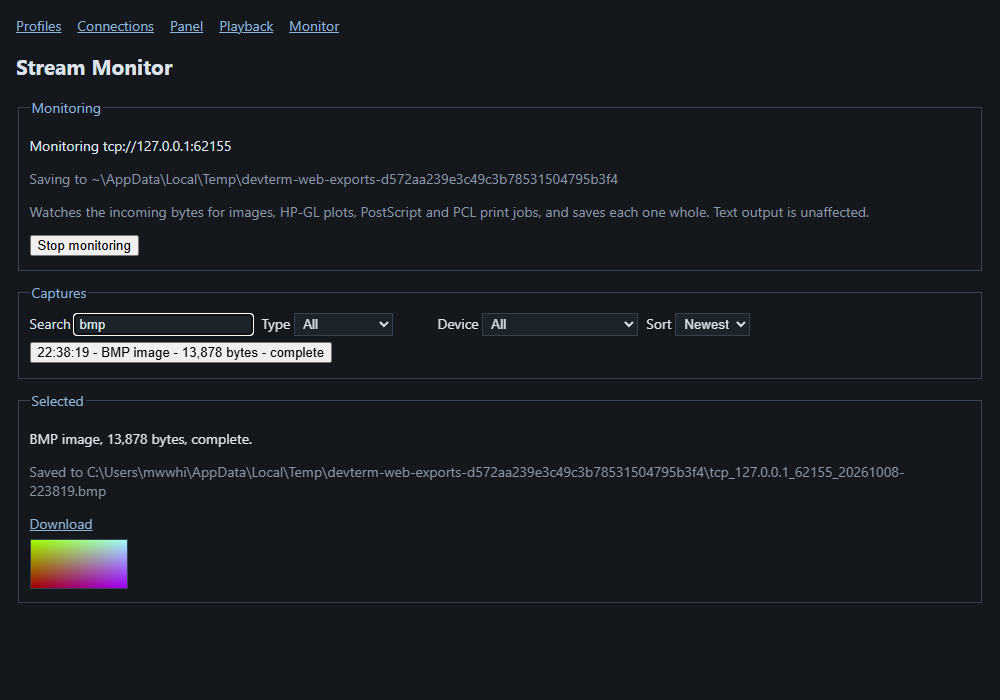
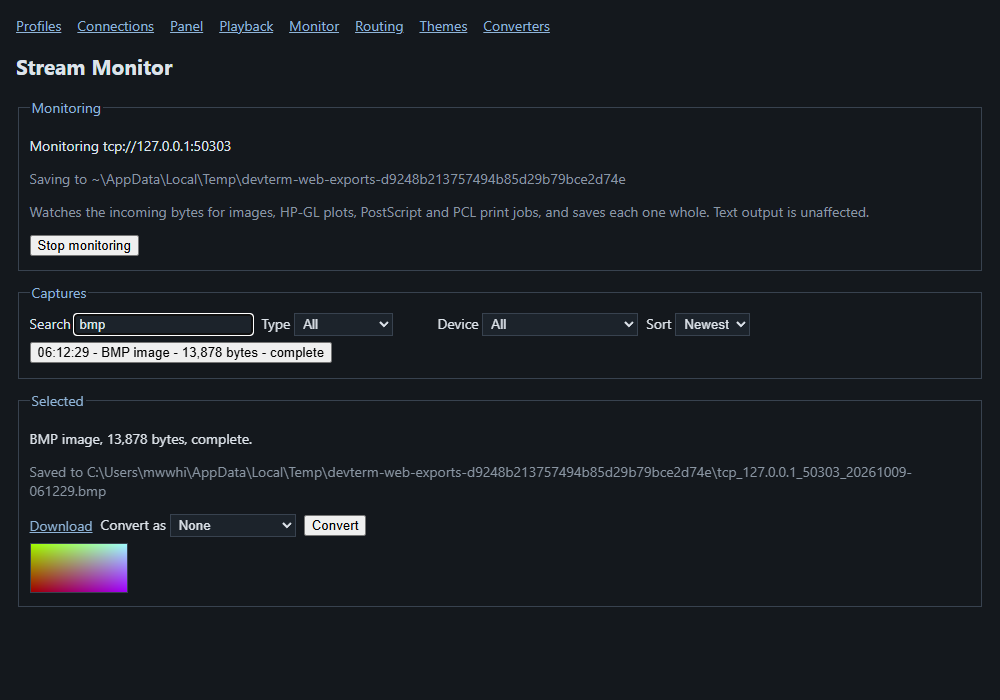
Web: Stream Monitor Convert with the shared converter choices

diff --git a/src/DevTerm.Web/WebStreamMonitor.cs b/src/DevTerm.Web/WebStreamMonitor.cs
@@ -10,12 +10,14 @@ namespace DevTerm.Web;
 public sealed class WebStreamMonitor : IDisposable
 {
     private readonly SessionHub _hub;
+    private readonly ConverterToolsStore _tools;
     private readonly ConnectionProfileStore _store = new();
     private readonly object _key = new();
 
-    public WebStreamMonitor(SessionHub hub)
+    public WebStreamMonitor(SessionHub hub, ConverterToolsStore tools)
     {
         _hub = hub;
+        _tools = tools;
         Monitor = new StreamMonitor(watcherOptions: new StreamContentWatcherOptions { IdleTimeout = TimeSpan.FromMilliseconds(hub.Options.StreamIdleTimeoutMs) }) { AutoConvertHpgl = hub.Options.StreamAutoConvertHpgl };
         hub.SessionChanged += Retrack;
         Retrack();
@@ -35,6 +37,28 @@ public sealed class WebStreamMonitor : IDisposable
     }
 
     public void Stop() => Monitor.Stop();
+
+    /// <summary>The Convert as list for this connection: the fixed modes plus Auto and each registered tool (the app-wide list and the profile's own).</summary>
+    public IReadOnlyList<StreamConversionChoice> ConversionChoices() => StreamConversionChoice.For(ConverterOptions());
+
+    /// <summary>The choice the connection's profile starts on.</summary>
+    public int DefaultChoice() => StreamConversionChoice.IndexOf(ConversionChoices(), ConverterOptions());
+
+    /// <summary>Runs <paramref name="choice"/> on <paramref name="capture"/>; a success is listed as a new capture beside the original.</summary>
+    public async Task<StreamConversionResult> ConvertAsync(StreamMonitorCapture capture, StreamConversionChoice choice)
+    {
+        var options = ConverterOptions();
+        choice.ApplyTo(options);
+        var result = await new StreamCaptureConverter(Microsoft.Extensions.Options.Options.Create(options)).ConvertAsync(capture).ConfigureAwait(false);
+        if (result.Success && result.OutputPath is not null)
+        {
+            Monitor.AddConverted(capture, result.OutputPath);
+        }
+
+        return result;
+    }
+
+    private StreamCaptureConverterOptions ConverterOptions() => StreamCaptureConverterOptions.FromCliOptions(_hub.Options, _tools.Load());
 
     public void Dispose()
     {

diff --git a/tests/DevTerm.Web.Tests/WebScreenshotTests.cs b/tests/DevTerm.Web.Tests/WebScreenshotTests.cs
@@ -316,6 +316,9 @@ public class WebScreenshotTests
             await Task.Delay(5000);
         });
         var options = new CliOptions { Transport = "tcp", Host = "127.0.0.1", Port = ((IPEndPoint)device.LocalEndpoint).Port.ToString(System.Globalization.CultureInfo.InvariantCulture), Presenter = ["hex"], Tui = false, Cli = true, ExportDirectory = exports };
+        var toolsFile = Path.Combine(exports, "tools.json");
+        Directory.CreateDirectory(exports);
+        new DevTerm.Configuration.ConverterToolsStore(toolsFile).Save([new DevTerm.Configuration.StreamConvertToolOptions { Name = "copyit", Path = "cmd.exe", Arguments = "/c copy /Y {input} {output}", OutputExtension = "png" }]);
         await RunAsync(async (page, baseUrl) =>
         {
             await page.GotoAsync($"{baseUrl}/monitor?token=demo-token");
@@ -333,10 +336,16 @@ public class WebScreenshotTests
             await page.Locator("[data-search]").FillAsync("bmp");
             await Assertions.Expect(page.Locator("[data-capture]")).ToHaveCountAsync(1);
             await SaveAsync(page, "web-blazor-monitor.png");
+            await page.Locator("[data-search]").FillAsync(string.Empty);
+            await page.Locator("[data-convertmode]").SelectOptionAsync(new SelectOptionValue { Label = "copyit" });
+            await page.Locator("[data-convert]").ClickAsync();
+            await Assertions.Expect(page.Locator("[data-convertresult]")).ToContainTextAsync("Converted to");
+            await Assertions.Expect(page.Locator("[data-capture]")).ToHaveCountAsync(2);
             await page.Locator("[data-toggle]").ClickAsync();
             await Assertions.Expect(page.Locator("[data-state]")).ToContainTextAsync("Stopped");
-        }, options: options);
+        }, options: options, converterToolsFile: toolsFile);
         Assert.AreEqual(1, Directory.GetFiles(exports, "*.bmp").Length);
+        Assert.AreEqual(1, Directory.GetFiles(exports, "*.png").Length);
     }
 
     [TestMethod]

diff --git a/src/DevTerm.Web/WebHost.cs b/src/DevTerm.Web/WebHost.cs
@@ -48,7 +48,7 @@ public static class WebHost
         });
 
         builder.Services.AddSingleton<Components.PanelHostHolder>();
-        builder.Services.AddSingleton(sp => new WebStreamMonitor(sp.GetRequiredService<SessionHub>()));
+        builder.Services.AddSingleton(sp => new WebStreamMonitor(sp.GetRequiredService<SessionHub>(), sp.GetRequiredService<ConverterToolsStore>()));
         builder.Services.AddSingleton(new ConverterToolsStore(webOptions.ConverterToolsFile));
         builder.Services.AddSingleton(new ThemeLibrary(webOptions.ThemesDirectory ?? DevTermUserDataPaths.ThemesDirectory));
         builder.Services.AddSingleton(new PlaybackLibrary(webOptions.LogsDirectory ?? DevTermUserDataPaths.LogsDirectory));

diff --git a/TODO.md b/TODO.md
@@ -8,7 +8,7 @@ Completed work is logged by date under `docs/changes/`.
 
 Queue from your 2026-10-02 answers. Each item below is partly built; what is left is stated per item.
 
-1. **Message brokers and the web tunnel** (unlocked). MQTT, AMQP and STOMP are built and verified (see `docs/changes/2026-10-02.md` and `2026-10-03.md`); the `DevTerm.Web` host is built too (loopback-only, token auth, `/ws` tunnel). The Blazor `/panel` page is built too (see `docs/changes/2026-10-03.md`). Indicator values on `/panel` update live. Web parity with the desktop apps is under way (2026-10-08): send format, echo, clear, logging, theme, history and the per-session Device menu are built; Playback, XON/XOFF, the Stream Monitor and Routing, the Theme builder and the converter tools editor are built too; left: Manifest editor, Stream Monitor Convert, project save/open, Configure device. Also left: a real home-automation broker check. Proposals: [message-broker-protocols](docs/design/proposals/message-broker-protocols.md), [web-tunnel-blazor-frontend](docs/design/proposals/web-tunnel-blazor-frontend.md).
+1. **Message brokers and the web tunnel** (unlocked). MQTT, AMQP and STOMP are built and verified (see `docs/changes/2026-10-02.md` and `2026-10-03.md`); the `DevTerm.Web` host is built too (loopback-only, token auth, `/ws` tunnel). The Blazor `/panel` page is built too (see `docs/changes/2026-10-03.md`). Indicator values on `/panel` update live. Web parity with the desktop apps is under way (2026-10-08): send format, echo, clear, logging, theme, history and the per-session Device menu are built; Playback, XON/XOFF, the Stream Monitor and Routing, the Theme builder and the converter tools editor and Stream Monitor Convert are built too; left: Manifest editor, project save/open, Configure device. Also left: a real home-automation broker check. Proposals: [message-broker-protocols](docs/design/proposals/message-broker-protocols.md), [web-tunnel-blazor-frontend](docs/design/proposals/web-tunnel-blazor-frontend.md).
 3. **Observability**: built (see `docs/changes/2026-10-02.md`). Metrics now export every 10 s (see `docs/changes/2026-10-03.md`). Traces confirmed in the Aspire dashboard container (see `docs/changes/2026-10-03.md`). Left: confirm the metric instruments show in its Metrics page. `ILogger` export has nothing to export yet (no code logs through `ILogger`), so it waits until something does.
 4. **TUI-only palette option** for the light theme on 16-color consoles: built (see `docs/changes/2026-10-02.md`). Left: look at it on a real legacy conhost.
 5. **Plugin loading**: the loader is built (see `docs/changes/2026-10-03.md`). Left: move the built-in decoders (NMEA, RadexOne, ...) out of the core references into plugin folders. Not a mechanical move: `ServiceCollectionExtensions` registers them, and `TuiMode`, `MainWindow` and `WebHost` reference the device projects directly for their menu items and control panels (K8055, Busylight, SCPI, De5000, ZoomH4n, RadexOne, NMEA), so it needs a plugin-contributed menu/panel contract first. The contract (`IDevicePanelContribution`) and the TUI/WPF menu entries are built; web `Web:Panel` also accepts a contributed id; K8055 and Busylight register contributions and the web host uses them; the TUI/WPF K8055/Busylight items now come from them too; K8055 and Busylight now load from `plugins/k8055` and `plugins/busylight` (copied into each app and test output by `Directory.Build.targets`); RadexOne, ZoomH4n, De5000 and NMEA load the same way; left: SCPI only, which `ConnectionEditorViewModel`, the profile picker and auto-detect reference directly, so it needs those pulled behind an interface first. See [plugin-contributed-panels](docs/design/proposals/plugin-contributed-panels.md).

diff --git a/docs/specs/stream-monitor.md b/docs/specs/stream-monitor.md
@@ -122,7 +122,7 @@ quiet, hit the size limit, or was stopped mid-capture), or `…, but could not s
 - **TUI**: no preview by design (Terminal.Gui can't draw images); open the saved file. The window is
   modal like every other TUI screen, which is why closing it doesn't stop monitoring. Device names
   and file names are shown verbatim (`_` is not treated as a hotkey marker).
-- **Web** (`/monitor`, `WebStreamMonitor`): one monitor on the host's shared session, started when a read-write viewer opens the page (a read-only viewer sees it but cannot start/stop) and following a profile switch. Shows the state line, `Saving to` folder, Start/Stop, search, Type and Device filters and Sort (`StreamCaptureView.Apply`), the capture list (newest selected as each arrives, live), the detail lines, a Download link (`GET /api/monitor/captures/{n}`) and an `<img>` preview for BMP/PNG/JPEG/GIF/SVG (a message otherwise). Not on the web yet: Convert, Open Folder, Export As (Download replaces it), extra connections opened from a project.
+- **Web** (`/monitor`, `WebStreamMonitor`): one monitor on the host's shared session, started when a read-write viewer opens the page (a read-only viewer sees it but cannot start/stop) and following a profile switch. Shows the state line, `Saving to` folder, Start/Stop, search, Type and Device filters and Sort (`StreamCaptureView.Apply`), the capture list (newest selected as each arrives, live), the detail lines, a Download link (`GET /api/monitor/captures/{n}`) and an `<img>` preview for BMP/PNG/JPEG/GIF/SVG (a message otherwise). Convert as + Convert (the same `StreamCaptureConverter` choices, using the app-wide tools list; a success is listed as a new capture; read-only viewers cannot convert). Not on the web yet: Open Folder, Export As (Download replaces it), extra connections opened from a project.
 - **WPF**: the capture list and preview split the width 2:3 (the list at least 220px, at most 420px; it was a fixed 320px), with a 640x380 minimum window size. A capture's second line is the item's own text color at 85% opacity rather than the muted color, so it stays readable on a selected row in a dark theme. Export As... stays button-sized at the top of the details area however many lines the details wrap to. Live preview + Open Folder + Export As..., per the proposal's "WPF can do better for free Under the preview, the detail text spans the full width and the conversion drop-down, Convert... and Export As... sit on their own right-aligned row (they used to share the text's row, which squeezed it to a sliver at the minimum window size).
   where a format already has a native decoder".
 

diff --git a/docs/changes/2026-10-08.md b/docs/changes/2026-10-08.md
@@ -81,3 +81,5 @@ Web parity, step 7: Routing. New Blazor `/routing` page over the shared `Routing
 Web parity, step 8: Theme builder. New Blazor `/themes` page over `ThemeBuilderState` (seed, name, chart palette, a color input per `ThemeRole` with Reset to seed, contrast warnings, a live preview pane, Save with reserved-name/invalid-name checks and an Overwrite checkbox) and `ThemeLibrary`/`Web:ThemesDirectory`. Tests: `WebScreenshotTests.ThemesPage_BuildsAndSavesATheme` (loads the saved file back), `ThemesPage_ReadOnlyViewer_CannotSave`, `/themes` rows in `WebLayoutReviewTests`; screenshot `web-blazor-themes.png`. Nav screenshots regenerated for the new link. Remaining parity: Convert, Manifest editor, converters, project save/open, Configure device.
 
 Web parity, step 9: converter tools editor. New Blazor `/converters` page over `ConverterToolsEditor`/`ConverterToolsStore` (`Web:ConverterToolsFile`): add, edit, reorder, remove, validate and save the shared list; read-only viewers cannot edit. Tests: `ConvertersPage_AddsATool_ValidatesAndSaves`, `ConvertersPage_ReadOnlyViewer_CannotEdit`, a `/converters` layout row; screenshot `web-blazor-converters.png`. Remaining parity: Stream Monitor Convert, Manifest editor, project save/open, Configure device.
+
+Web parity, step 10: Stream Monitor Convert. The `/monitor` page gets a Convert as list (`StreamConversionChoice.For`, app-wide tools plus the profile's) and a Convert button via `WebStreamMonitor.ConvertAsync`; a success is added with `StreamMonitor.AddConverted`. Read-only viewers cannot convert. The monitor test now converts the captured BMP with a `cmd copy` tool and checks the second capture and file. Remaining parity: Manifest editor, project save/open, Configure device, Open Folder.

diff --git a/docs/specs/converter-tools-editor.md b/docs/specs/converter-tools-editor.md
@@ -43,4 +43,4 @@ the same name, in which case the app-wide one wins. They have no editing screen 
 
 ## Web
 
-`/converters` in `DevTerm.Web` edits the same shared list (`ConverterToolsEditor`, `converter-tools.json`, or `Web:ConverterToolsFile`). All tools show as editable cards; Save validates as OK does and writes at once, Revert reloads the file. Read-only viewers cannot change it. Nothing on the web runs a converter yet (Stream Monitor Convert is not built), so a saved tool is only used by the desktop apps.
+`/converters` in `DevTerm.Web` edits the same shared list (`ConverterToolsEditor`, `converter-tools.json`, or `Web:ConverterToolsFile`). All tools show as editable cards; Save validates as OK does and writes at once, Revert reloads the file. Read-only viewers cannot change it. The web Stream Monitor's Convert uses this list.

diff --git a/docs/user-guide/stream-monitor.md b/docs/user-guide/stream-monitor.md
@@ -146,6 +146,6 @@ Open **Monitor** from the nav row (`/monitor`). It starts watching the shared se
 
 ![Monitor page](images/web-blazor-monitor.png)
 
-The web's **Converters** page edits the shared converter tools list (name, path, arguments, formats, output extension, DPI; add, remove, reorder, Save). Running a converter from the web Stream Monitor is not available yet.
+The web's **Converters** page edits the shared converter tools list (name, path, arguments, formats, output extension, DPI; add, remove, reorder, Save). The Stream Monitor page has a **Convert as** list and a **Convert** button that run the chosen mechanism on the selected capture, listing the result as a new capture (read-only viewers cannot convert).
 
 ![Converter tools on the web](images/web-blazor-converters.png)
